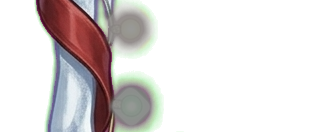
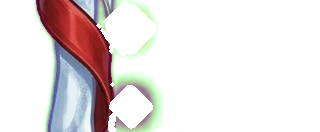
feat: Noël, guirlandes dessinées en vectoriel (nettes à toute taille), posées sur le cadre au lieu de pendre dedans

Changed region(s): [[0.1875, 0.0, 0.5, 0.5455], [0.3125, 0.6364, 0.5, 1.0]]

diff --git a/Client/Ui/Skin/SkinGarland.cs b/Client/Ui/Skin/SkinGarland.cs
@@ -1,0 +1,162 @@
+using System.Windows;
+using System.Windows.Controls;
+using System.Windows.Media;
+using System.Windows.Media.Animation;
+using System.Windows.Shapes;
+
+namespace AionDPS.Ui.Skin;
+
+/// <summary>
+/// The strings of little Christmas lights along the frame (Stacy, 2026-11-02: "les guirlandes à l'extérieur du cadre, plus d'espace pour les infos" and "un peu pixelisées de loin"):
+/// drawn here as vectors, so they stay sharp at any size of the overlay, laid on the frame's bar instead of hanging inside the panel. Every other bulb is in the same group; the two
+/// groups light up in turn, sharply, as the bulbs of a real string do. A canvas in the skin's host, as big as the panel, redone when the panel changes size; never takes a click.
+/// </summary>
+internal static class SkinGarland
+{
+    private const string CanvasTag = "skin-garland";
+
+    private static readonly Color[] Colours =
+    {
+        Color.FromRgb(0xFF, 0x4A, 0x3D), Color.FromRgb(0xFF, 0xD2, 0x4A), Color.FromRgb(0x4C, 0xE0, 0x74), Color.FromRgb(0x5C, 0xC8, 0xFF), Color.FromRgb(0xFF, 0x8A, 0x2E),
+    };
+
+    /// <summary>Puts the strings in the host (one canvas, whatever the number of calls); the corners' size says where each string starts and ends.</summary>
+    public static void Start(Grid host, SkinPack skin)
+    {
+        Stop(host);
+        if (skin.Garland is not SkinGarlandInfo info || skin.Frame is not SkinFrameInfo frame)
+        {
+            return;
+        }
+
+        var canvas = new Canvas { IsHitTestVisible = false, Tag = CanvasTag };
+        host.Children.Add(canvas);
+        canvas.SizeChanged += (_, _) => Build(canvas, info, frame);
+        Build(canvas, info, frame);
+    }
+
+    /// <summary>Takes the strings out of the host.</summary>
+    public static void Stop(Grid host)
+    {
+        foreach (Canvas canvas in host.Children.OfType<Canvas>().Where(c => c.Tag as string == CanvasTag).ToList())
+        {
+            canvas.Children.Clear();
+            host.Children.Remove(canvas);
+        }
+    }
+
+    /// <summary>How many bulbs are drawn in the host now (the tests).</summary>
+    internal static int BulbsIn(Grid host) =>
+        host.Children.OfType<Canvas>().FirstOrDefault(c => c.Tag as string == CanvasTag)?.Children.OfType<Canvas>().Count(c => c.Tag as string == "bulb") ?? 0;
+
+    private static void Build(Canvas canvas, SkinGarlandInfo info, SkinFrameInfo frame)
+    {
+        canvas.Children.Clear();
+        double width = canvas.ActualWidth, height = canvas.ActualHeight;
+        if (!double.IsFinite(width) || !double.IsFinite(height) || width < 120 || height < 90)
+        {
+            return;
+        }
+
+        double cornerW = frame.Corner.Width * 0.92, cornerH = frame.Corner.Height * 0.95;
+        // the two groups' blink: group 0 lit during the first half of the cycle, group 1 during the second
+        DoubleAnimationUsingKeyFrames Blink(int group)
+        {
+            double cycle = info.Period;
+            var blink = new DoubleAnimationUsingKeyFrames { Duration = TimeSpan.FromSeconds(cycle), RepeatBehavior = RepeatBehavior.Forever };
+            blink.KeyFrames.Add(new DiscreteDoubleKeyFrame(group == 0 ? 1 : 0, KeyTime.FromTimeSpan(TimeSpan.Zero)));
+            blink.KeyFrames.Add(new DiscreteDoubleKeyFrame(group == 0 ? 0 : 1, KeyTime.FromTimeSpan(TimeSpan.FromSeconds(cycle / 2))));
+            blink.KeyFrames.Add(new DiscreteDoubleKeyFrame(group == 0 ? 1 : 0, KeyTime.FromTimeSpan(TimeSpan.FromSeconds(cycle))));
+            blink.Freeze();
+            return blink;
+        }
+
+        DoubleAnimationUsingKeyFrames[] blinks = { Blink(0), Blink(1) };
+        var wire = new SolidColorBrush(Color.FromRgb(0x2C, 0x4A, 0x2A));
+        wire.Freeze();
+
+        // one string: from (x0, y0) to (x1, y1) along the bar, the bulbs hanging to the side `down` (a unit vector pointing into the panel)
+        void String(double x0, double y0, double x1, double y1, Vector down, int seed)
+        {
+            double length = Math.Sqrt((x1 - x0) * (x1 - x0) + (y1 - y0) * (y1 - y0));
+            int n = Math.Max(2, (int)Math.Round(length / info.Spacing));
+            Vector along = new Vector((x1 - x0) / length, (y1 - y0) / length);
+            // the wire sags a little between two bulbs
+            var geometry = new StreamGeometry();
+            using (StreamGeometryContext ctx = geometry.Open())
+            {
+                ctx.BeginFigure(new Point(x0, y0), false, false);
+                for (int i = 0; i < n; i++)
+                {
+                    Point a = new Point(x0 + (x1 - x0) * i / n, y0 + (y1 - y0) * i / n);
+                    Point b = new Point(x0 + (x1 - x0) * (i + 1) / n, y0 + (y1 - y0) * (i + 1) / n);
+                    Point mid = new Point((a.X + b.X) / 2, (a.Y + b.Y) / 2) + down * info.Bulb * 0.22;
+                    ctx.QuadraticBezierTo(mid, b, true, false);
+                }
+            }
+
+            geometry.Freeze();
+            canvas.Children.Add(new Path { Data = geometry, Stroke = wire, StrokeThickness = Math.Max(0.7, info.Bulb * 0.14), IsHitTestVisible = false });
+            for (int i = 0; i <= n; i++)
+            {
+                Point at = new Point(x0 + (x1 - x0) * i / n, y0 + (y1 - y0) * i / n);
+                Color colour = Colours[(i + seed) % Colours.Length];
+                canvas.Children.Add(Bulb(at + down * info.Bulb * 0.2, down, colour, i % 2, info.Bulb, blinks));
+            }
+        }
+
+        double inset = 0; // the bar's centre is the panel's edge
+        String(cornerW, inset, width - cornerW, inset, new Vector(0, 1), 0);
+        String(cornerW, height - inset, width - cornerW, height - inset, new Vector(0, -1), 2);
+        String(inset, cornerH, inset, height - cornerH, new Vector(1, 0), 1);
+        String(width - inset, cornerH, width - inset, height - cornerH, new Vector(-1, 0), 3);
+    }
+
+    /// <summary>One bulb at <paramref name="at"/>: a socket on the wire, the glass pointing along <paramref name="down"/>, dark when off, bright with a halo when on.</summary>
+    private static Canvas Bulb(Point at, Vector down, Color colour, int group, double size, DoubleAnimationUsingKeyFrames[] blinks)
+    {
+        double glass = size, halo = size * 3.4;
+        var holder = new Canvas { Tag = "bulb", IsHitTestVisible = false, Width = 0, Height = 0 };
+        Canvas.SetLeft(holder, at.X);
+        Canvas.SetTop(holder, at.Y);
+        // everything is drawn pointing down, then turned to `down`
+        double angle = Math.Atan2(down.X * -1, down.Y) * 180 / Math.PI;
+        holder.RenderTransform = new RotateTransform(angle);
+
+        Ellipse Glass(Color fill, Color edge, double radiusScale = 1)
+        {
+            var brush = new RadialGradientBrush
+            {
+                GradientOrigin = new Point(0.38, 0.32), Center = new Point(0.5, 0.5), RadiusX = 0.62, RadiusY = 0.62,
+                GradientStops = { new GradientStop(Color.FromArgb(0xFF, 255, 255, 255), 0), new GradientStop(fill, 0.3 * radiusScale), new GradientStop(edge, 1) },
+            };
+            brush.Freeze();
+            var e = new Ellipse { Width = glass * 0.86, Height = glass, Fill = brush, Stroke = new SolidColorBrush(Color.FromArgb(0xB0, 0x10, 0x10, 0x18)), StrokeThickness = 0.5, IsHitTestVisible = false };
+            Canvas.SetLeft(e, -glass * 0.43);
+            Canvas.SetTop(e, size * 0.32);
+            return e;
+        }
+
+        var socket = new Rectangle { Width = size * 0.42, Height = size * 0.34, Fill = new SolidColorBrush(Color.FromRgb(0xB8, 0x92, 0x3A)), Stroke = new SolidColorBrush(Color.FromArgb(0xC0, 0x30, 0x24, 0x10)), StrokeThickness = 0.4, IsHitTestVisible = false };
+        Canvas.SetLeft(socket, -size * 0.21);
+        Canvas.SetTop(socket, size * 0.0);
+        holder.Children.Add(socket);
+        // off: dark glass, a hint of its colour
+        Color dark = Color.FromRgb((byte)(colour.R * 0.34), (byte)(colour.G * 0.34), (byte)(colour.B * 0.34));
+        var off = Glass(Color.FromRgb((byte)(colour.R * 0.42), (byte)(colour.G * 0.42), (byte)(colour.B * 0.42)), dark);
+        holder.Children.Add(off);
+        // on: the halo and the bright glass, together, shown by the group's blink
+        var on = new Canvas { IsHitTestVisible = false, Width = 0, Height = 0 };
+        var glow = new RadialGradientBrush(Color.FromArgb(0x90, colour.R, colour.G, colour.B), Color.FromArgb(0x00, colour.R, colour.G, colour.B));
+        glow.Freeze();
+        var halo1 = new Ellipse { Width = halo, Height = halo, Fill = glow, IsHitTestVisible = false };
+        Canvas.SetLeft(halo1, -halo / 2);
+        Canvas.SetTop(halo1, size * 0.32 + glass / 2 - halo / 2);
+        on.Children.Add(halo1);
+        on.Children.Add(Glass(colour, Color.FromRgb((byte)(colour.R * 0.72), (byte)(colour.G * 0.72), (byte)(colour.B * 0.72)), 1.25));
+        on.Opacity = group == 0 ? 1 : 0;
+        on.BeginAnimation(UIElement.OpacityProperty, blinks[group]);
+        holder.Children.Add(on);
+        return holder;
+    }
+}

diff --git a/Tools/skin-pack/pack_noel_frame.py b/Tools/skin-pack/pack_noel_frame.py
@@ -50,27 +50,21 @@ for rname, items in by_region.items():
     for k, (_, i) in enumerate(sorted(items)):
         group[lab == i] = k % 2
 NG = 2
-soft_all = np.clip(ndimage.gaussian_filter(near.astype(float), 3) * 1.6, 0, 1)
-# switched off: dark glass, little colour; the glow of the lit ones is added on top
-grey = fg.mean(-1, keepdims=True)
-dim_fg = (fg * 0.7 + grey * 0.3) * (1 - 0.8 * soft_all)[..., None]
-dim_alpha = alpha * (1 - 0.5 * soft_all)
-print(count, 'bulbs', {k: len(v_) for k, v_ in by_region.items()})
-full = Image.fromarray(np.dstack([dim_fg, dim_alpha * 255]).astype('uint8'), 'RGBA')
+# the wire: thin, golden
+hh = np.zeros_like(mx); d = mx - mn; m_ = d > 1e-6
+rc = (mx == fg[..., 0]) & m_
+hh[rc] = (((fg[..., 1] - fg[..., 2])[rc] / d[rc]) % 6) / 6
+sat = d / np.maximum(mx, 1)
+wire = (hh > 0.06) & (hh < 0.17) & (sat > 0.3) & (mx > 80) & (mx < 235) & (alpha > 0.5)
+for x0, y0_, x1, y1_ in ((0, 0, tw, th), (CW - tw, 0, CW, th), (0, CH - bh, tw, CH), (CW - tw, CH - bh, CW, CH)):
+    wire[y0_:y1_, x0:x1] = False
+# the ribbons are red, the bar is snow: nothing else of that hue lies between the corners; only the thin lines stay (the opening takes the blobs out)
+wire = wire & ~ndimage.binary_opening(wire, iterations=2)
+gone = ndimage.binary_dilation(wire, iterations=2) | ndimage.binary_dilation(near, iterations=2)
+alpha = np.where(gone, 0, alpha)
+print(count, 'bulbs erased')
+full = Image.fromarray(np.dstack([fg, alpha * 255]).astype('uint8'), 'RGBA')
 layers = []
-for gidx in range(NG):
-    cg = (group == gidx) & core
-    m = np.clip(ndimage.gaussian_filter((group == gidx).astype(float), 3) * 1.6, 0, 1)
-    # the glow around the lit bulbs, in their own colours
-    wsum = ndimage.gaussian_filter(cg.astype(float), 7) + 1e-6
-    gcol = np.stack([ndimage.gaussian_filter(fg[..., c] * cg, 7) / wsum for c in range(3)], -1)
-    gcol = np.clip(gcol * 1.15 + 25, 0, 255)
-    ga = np.clip(ndimage.gaussian_filter(cg.astype(float), 7) * 4.5, 0, 0.85)
-    la = alpha * m
-    lfg = np.clip(fg * 1.12, 0, 255)
-    out_a = la + ga * (1 - la)
-    out_rgb = (lfg * la[..., None] + gcol * (ga * (1 - la))[..., None]) / np.maximum(out_a, 1e-4)[..., None]
-    layers.append(Image.fromarray(np.dstack([out_rgb, out_a * 255]).astype('uint8'), 'RGBA'))
 
 cuts = {'tl': (0, 0, tw, th), 't': (tw, 0, CW - tw, th), 'tr': (CW - tw, 0, CW, th),
         'bl': (0, CH - bh, tw, CH), 'b': (tw, CH - bh, CW - tw, CH), 'br': (CW - tw, CH - bh, CW, CH)}
@@ -89,7 +83,8 @@ ppp = v['ppp']
 ov = {'left': cx0, 'top': cy0, 'right': CW - cx1, 'bottom': CH - cy1}
 sk = json.load(open(f'{OUT}/skin.json', encoding='utf-8'))
 sk['frame'] = {'ppp': ppp, 'overhang': {k: round(x * ppp, 2) for k, x in ov.items()}, 'corner': {'w': round(tw * ppp, 2), 'h': round(th * ppp, 2)}, 'pieces': pieces, 'band': 1.0, 'tileSides': True}
-sk['frame']['lights'] = [{'pieces': lp, 'period': per} for lp, per in zip(light_pieces, (1.2, 1.2))]
+sk['frame'].pop('lights', None)
+sk['garland'] = {'bulb': 6.2, 'spacing': 13.5, 'period': 1.2}
 sk.pop('decos', None)
 json.dump(sk, open(f'{OUT}/skin.json', 'w', encoding='utf-8'), indent=2)
 print(which, sk['frame']['overhang'], sk['frame']['corner'])

diff --git a/Client/Ui/Skin/SkinPack.cs b/Client/Ui/Skin/SkinPack.cs
@@ -21,6 +21,9 @@ public sealed record SkinFrameInfo(double Ppp, Thickness Overhang, Size Corner, 
     public IReadOnlyList<SkinLightLayer> Lights { get; init; } = Array.Empty<SkinLightLayer>();
 }
 
+/// <summary>The strings of little lights drawn along the frame (skin.json "garland"): the bulb's size and the space between two bulbs in points, the seconds of a cycle (one group lit, then the other).</summary>
+public sealed record SkinGarlandInfo(double Bulb, double Spacing, double Period);
+
 /// <summary>A group of bulbs of the frame: the pieces' files (the same names as the frame's) with only these bulbs lit, and the seconds a blink takes.</summary>
 public sealed record SkinLightLayer(IReadOnlyDictionary<string, string> Pieces, double Period);
 
@@ -59,6 +62,9 @@ public sealed class SkinPack
 
     /// <summary>The snowflakes of the DPS bar, left to right.</summary>
     public IReadOnlyList<SkinImage> Flakes { get; private init; } = Array.Empty<SkinImage>();
+
+    /// <summary>The strings of lights along the frame, drawn as vectors (skin.json "garland"), or null.</summary>
+    public SkinGarlandInfo? Garland { get; private init; }
 
     /// <summary>The decorations outside the frame (skin.json "decos"), those whose file is there.</summary>
     public IReadOnlyList<SkinDeco> Decos { get; private init; } = Array.Empty<SkinDeco>();
@@ -180,8 +186,12 @@ public sealed class SkinPack
                 }
             }
 
+            SkinGarlandInfo? garland = root.TryGetProperty("garland", out JsonElement gl) && gl.ValueKind == JsonValueKind.Object
+                ? new SkinGarlandInfo(gl.GetProperty("bulb").GetDouble(), gl.GetProperty("spacing").GetDouble(), gl.TryGetProperty("period", out JsonElement gp) ? gp.GetDouble() : 1.2)
+                : null;
             return new SkinPack
             {
+                Garland = garland,
                 Decos = decos,
                 Id = root.GetProperty("id").GetString() ?? "", Name = root.TryGetProperty("name", out JsonElement name) ? name.GetString() ?? "" : "",
                 Theme = root.TryGetProperty("theme", out JsonElement theme) ? theme.GetString() ?? "" : "", Folder = folder, Frame = frame, Images = images, Flakes = flakes,

diff --git a/Client/Ui/MainWindow.xaml.cs b/Client/Ui/MainWindow.xaml.cs
@@ -4214,6 +4214,7 @@ public partial class MainWindow : Window
         AlignSkinHost(panel.Padding);
         Skin.SkinSnow.Start(WinterSkinHost, 64, skin.Flakes.Select(f => skin.Bitmap(f.File)).OfType<ImageSource>().ToList());
         Skin.SkinAmbience.Start(WinterSkinHost, skin, skin.Frame?.Overhang ?? new Thickness(0));
+        Skin.SkinGarland.Start(WinterSkinHost, skin);
         // the warm colours of the mock-up: cream text, warm beige for the quiet labels
         panel.Resources["Brush.OverlayText"] = FrozenBrush(0xFF, 0xF6, 0xE6);
         panel.Resources["Brush.TextSubtle"] = FrozenBrush(0xE2, 0xD3, 0xB8);
